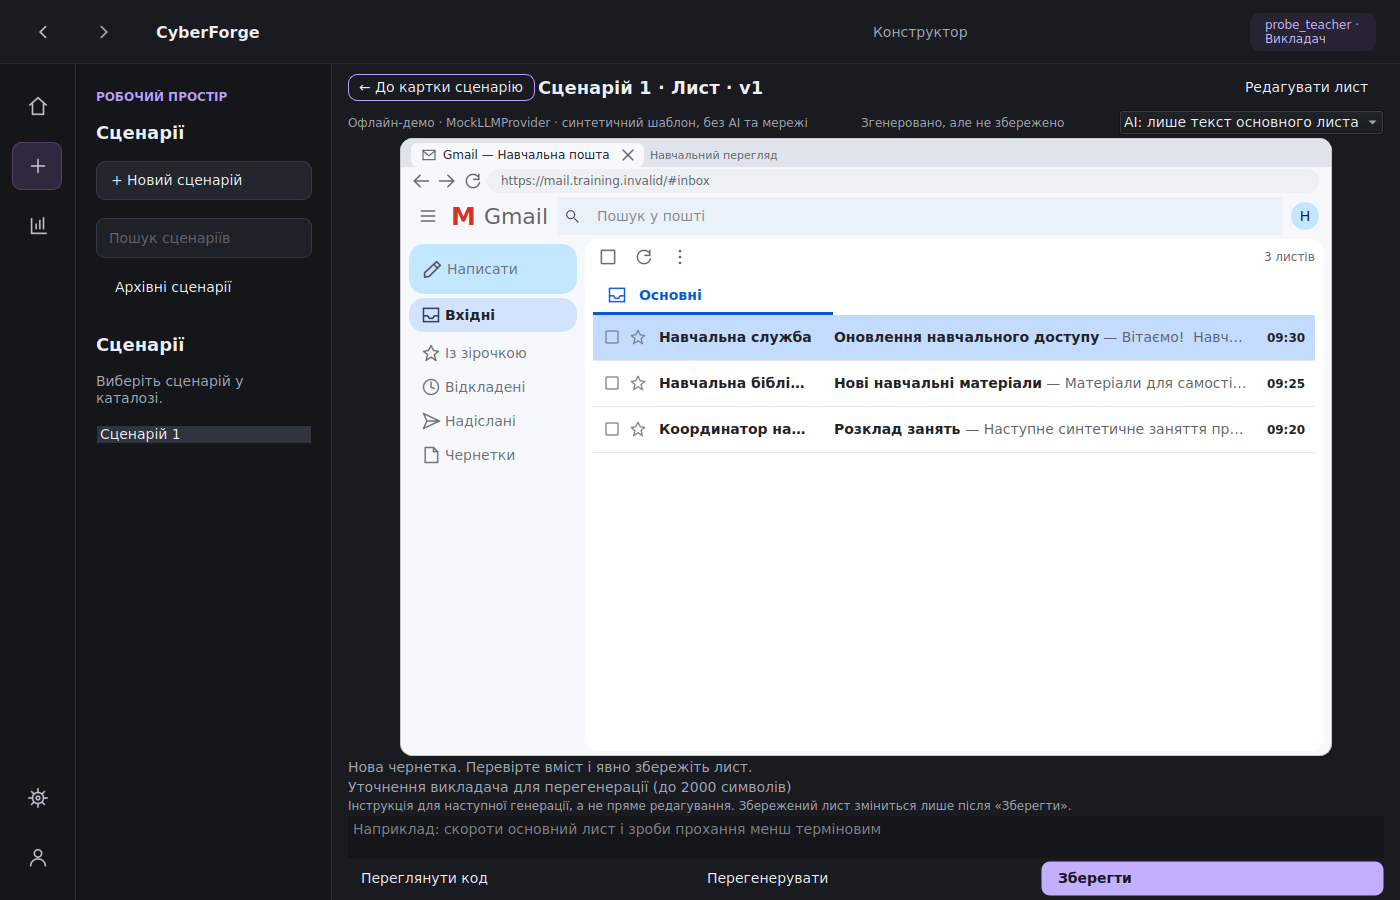
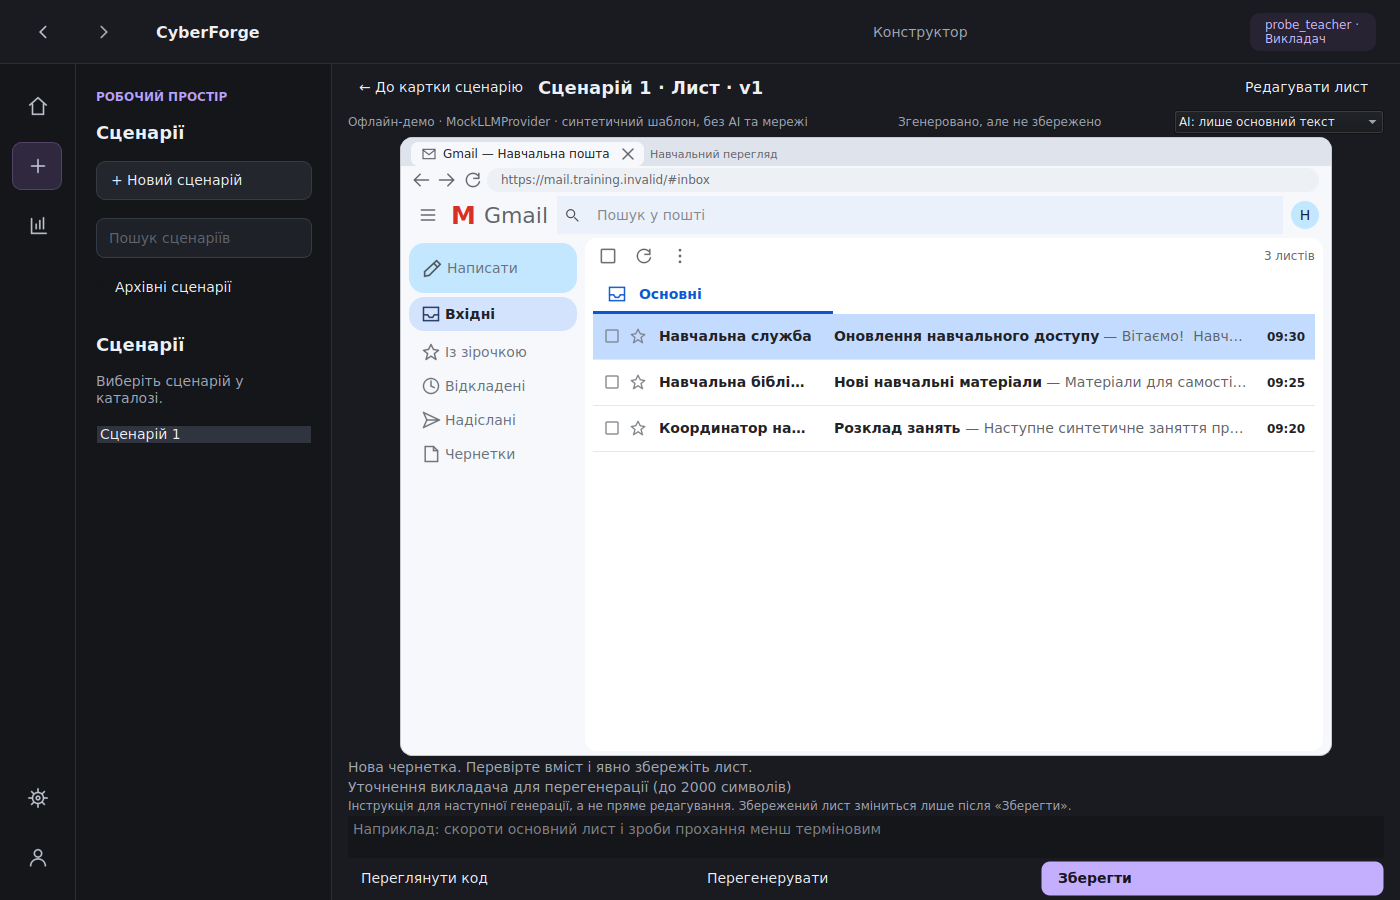
fix: keep Phase 6 editing controls within compact Windows layout

diff --git a/src/cyberforge/ui/email_page.py b/src/cyberforge/ui/email_page.py
@@ -122,8 +122,15 @@ class EmailPage(QWidget):
         self.edit_button.clicked.connect(self.edit_message)
         top.addWidget(self.edit_button)
         self.refinement_scope = QComboBox()
-        self.refinement_scope.addItem("AI: лише текст основного листа", "main_body")
+        self.refinement_scope.addItem("AI: лише основний текст", "main_body")
         self.refinement_scope.addItem("AI: весь лист і фон", "all")
+        # Bound the combo's minimum hint independently of native Windows font
+        # metrics, so the provider/status row cannot widen the whole workspace.
+        self.refinement_scope.setMinimumContentsLength(20)
+        self.refinement_scope.setSizeAdjustPolicy(
+            QComboBox.SizeAdjustPolicy.AdjustToMinimumContentsLengthWithIcon
+        )
+        self.refinement_scope.setStyleSheet("font-size: 12px;")
         self.refinement_scope.setAccessibleName("Межі змін AI; інші поля зберігаються")
         self.refinement_scope.setToolTip(
             "Лише текст: тема, відправник і всі фонові листи захищені. "

diff --git a/tests/ui/test_email_constructor.py b/tests/ui/test_email_constructor.py
@@ -262,6 +262,8 @@ def test_compact_mailbox_keeps_critical_controls_visible(
     viewport = scroll.viewport()
     for control in (
         page.back_button,
+        page.edit_button,
+        page.refinement_scope,
         page.refinement,
         page.code_button,
         page.generate_button,

diff --git a/docs/DEVELOPMENT_LOG.md b/docs/DEVELOPMENT_LOG.md
@@ -2382,3 +2382,22 @@ Commit/push remain in the existing Phase6 branch/PR7. Exact final HEAD and both
 Linux/Windows CI jobs/log evidence will be recorded in PR7 and the final report
 without a documentation-only commit. No merge, ACCEPTED or Phase7 transition.
 Live Groq remains owner-initiated and PENDING; no real API calls were made.
+
+### Windows CI compact-layout correction
+
+Completion commit ee370503 passed Linux CI; Windows CI run43591272955 reported
+7layout failures (717passed,2platform skips). Native combo font metrics widened
+the Email page to812px inside a768px viewport. The AI scope selector now uses a
+shorter Ukrainian label,12px typography and a bounded minimum-content size hint.
+The existing compact tests also assert Edit/scope visibility; no assertions were
+removed. Focused compact/native-hint/long-Unicode suite:7passed/36.85s. Real
+WSLg capture confirms zero horizontal overflow, visible critical controls and a
+current unsaved edited candidate at1100×720; three mailbox screenshots refreshed.
+The sandbox's first Wayland attempt lacked socket access; the authorized WSLg
+probe then passed with local-display access. Ruff lint/format pass97files.
+Final correction full gate:
+`GOOGLE_API_KEY= GROQ_API_KEY= LANGSMITH_TRACING=false UV_CACHE_DIR=/tmp/cyberforge-phase6-ux-uv-cache uv run --offline --locked pytest -q --tb=short --durations=10`:
+**726passed/1010.40s**, exit0; `/tmp/phase6-edit-layout-full.log`.
+The same7focused layout cases also pass through real WSLg/Wayland in40.30s.
+Final lint/format and whitespace checks pass; no production edits follow this
+gate. Final-head Linux/Windows CI evidence will be recorded in PR7 and delivery.
